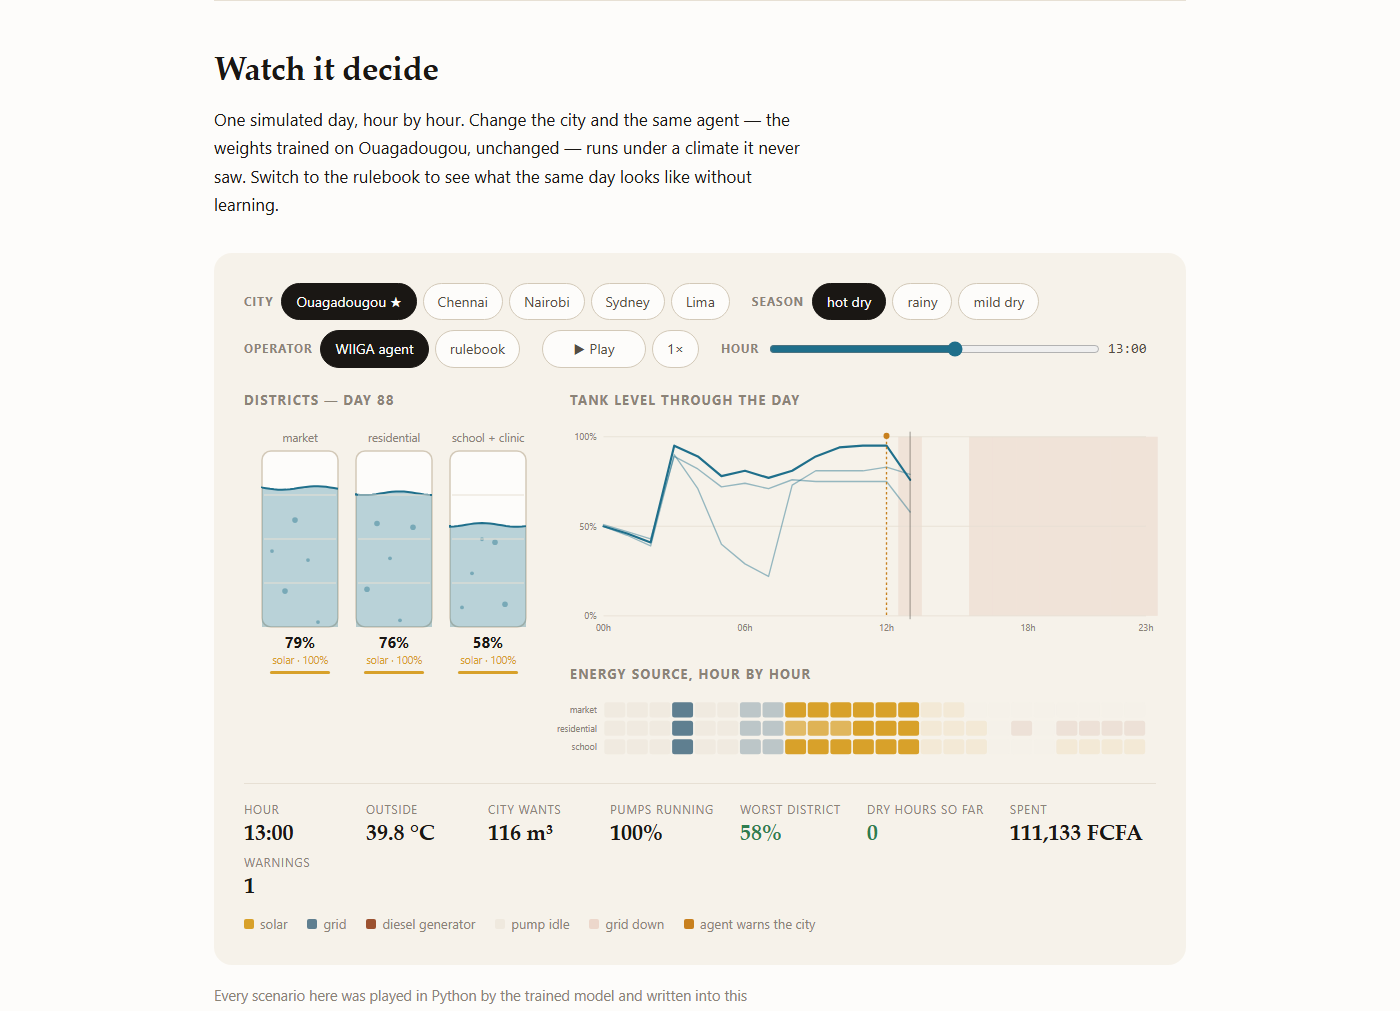
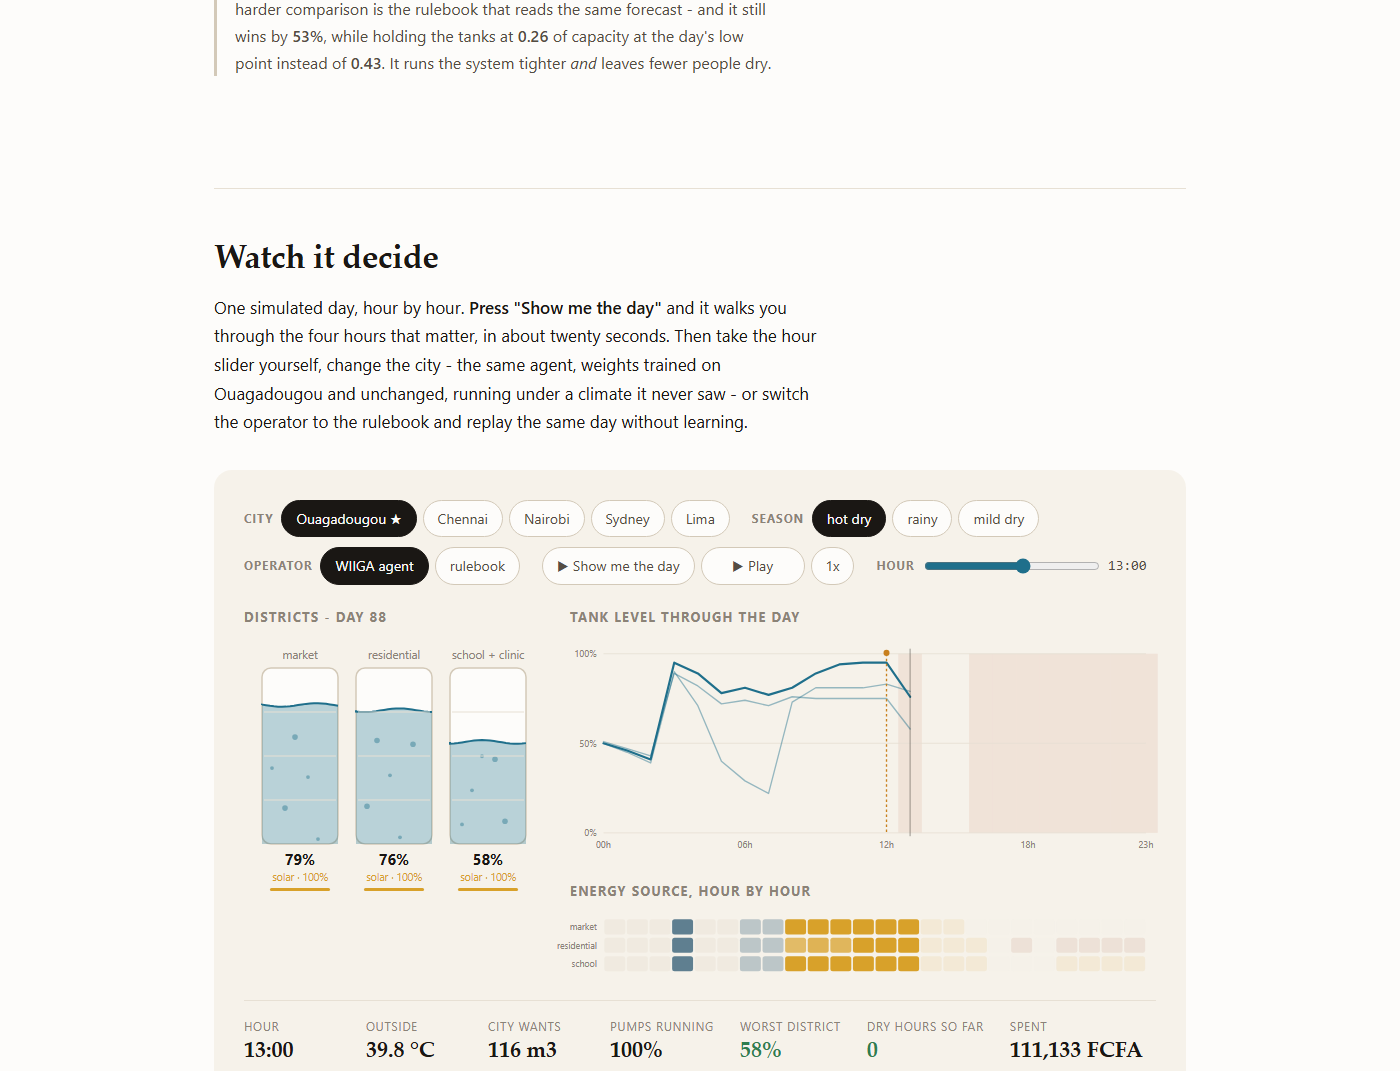
Visite guidee : la page se raconte toute seule en vingt secondes
Une console vide n'apprend rien a qui ne sait pas ou regarder, et un jure
qui ouvre la page ne sait pas ou regarder. Le bouton 'Show me the day'
parcourt les quatre heures qui comptent - 3 h le rappel de la station,
13 h le plein solaire, 19 h les pompes presque a l'arret, 23 h la journee
close a zero heure a sec - avec une legende a chaque etape.

Verifie dans le navigateur : les quatre etapes s'enchainent, l'heure, le
recit et la lecture chiffree changent ensemble.

diff --git a/demo/gabarit.html b/demo/gabarit.html
@@ -78,6 +78,12 @@
          font-variant-numeric:tabular-nums}
   .ro .v.bad{color:var(--bad)} .ro .v.good{color:var(--good)}
 
+  .recit{margin:16px 0 0;padding:14px 18px;border-radius:12px;max-width:none;
+         background:color-mix(in srgb,var(--water) 10%,var(--paper));
+         border-left:3px solid var(--water);font-size:16.5px;line-height:1.55}
+  .recit b{color:var(--water)}
+  button#c-tour[aria-pressed=true]{background:var(--water);border-color:var(--water);
+                                   color:#fff}
   .keys{display:flex;flex-wrap:wrap;gap:7px 20px;font-size:13px;color:var(--ink-3);margin:14px 0 0}
   .keys i{width:10px;height:10px;border-radius:2px;display:inline-block;margin-right:6px}
 
@@ -129,10 +135,11 @@ It prepared for it at midday.</p>
 <!-- ==================== CONSOLE ==================== -->
 <section id="console">
   <h2>Watch it decide</h2>
-  <p>One simulated day, hour by hour. <b>Drag the hour slider to 13:00, then to
-  19:00</b> - that is the whole argument in two moves. Change the city and the
-  same agent, weights trained on Ouagadougou and unchanged, runs under a climate
-  it never saw. Switch to the rulebook to see the same day without learning.</p>
+  <p>One simulated day, hour by hour. <b>Press "Show me the day"</b> and it walks
+  you through the four hours that matter, in about twenty seconds. Then take the
+  hour slider yourself, change the city - the same agent, weights trained on
+  Ouagadougou and unchanged, running under a climate it never saw - or switch the
+  operator to the rulebook and replay the same day without learning.</p>
 
   <div class="console">
     <div class="bar">
@@ -140,6 +147,7 @@ It prepared for it at midday.</p>
       <div class="grp" id="c-season"><span class="t">Season</span></div>
       <div class="grp" id="c-policy"><span class="t">Operator</span></div>
       <div class="grp">
+        <button class="play" id="c-tour" type="button">▶ Show me the day</button>
         <button class="play" id="c-play" type="button">▶ Play</button>
         <button id="c-speed" type="button">1x</button>
       </div>
@@ -167,6 +175,8 @@ It prepared for it at midday.</p>
       </div>
     </div>
 
+    <p class="recit" id="recit" hidden></p>
+    <p class="recit" id="recit" hidden></p>
     <div class="readout" id="readout"></div>
 
     <div class="keys">
@@ -428,7 +438,45 @@ bPlay.onclick=()=>{st.play=!st.play; if(st.play&&st.t>=23.99)st.t=0;
 bSpeed.onclick=()=>{st.vit=st.vit===1?2:st.vit===2?4:1; bSpeed.textContent=st.vit+"x";};
 // le curseur d'heure : on peut sauter à 19 h, quand le réseau tombe et que le
 // quartier résidentiel a soif - c'est là que la décision se voit
-bHour.oninput=()=>{st.play=false; bPlay.textContent="▶ Play";
+const bTour=document.getElementById("c-tour"), lRecit=document.getElementById("recit");
+// La visite guidee : quatre heures d'une meme journee, avec ce qu'elles racontent.
+// Elle existe parce qu'une console vide n'apprend rien a qui ne sait pas ou regarder,
+// et qu'un jure qui ouvre la page ne sait pas ou regarder.
+const VISITE=[
+ [3,"<b>3 a.m.</b> - the agent hands the station back to the operator. It pays 3.0 of "+
+    "reward to say <i>not this hour, you take it</i>. At night there is no sun to trade "+
+    "and no peak to anticipate: the old fixed setting is simply the right answer, and "+
+    "the agent knows it."],
+ [13,"<b>1 p.m.</b> - all three pumps at 100 %, all three on solar. Nobody is thirsty at "+
+    "1 p.m.: it is not serving demand, it is <b>storing work already done</b>. The tank "+
+    "is the battery, and it was already built."],
+ [19,"<b>7 p.m.</b> - peak demand, grid down, sun gone. The pumps are almost off and "+
+    "nobody is dry. <b>It did not react to the evening. It prepared for it at midday.</b>"],
+ [23,"<b>11 p.m.</b> - the day closes with zero dry hours. Now switch the operator to "+
+    "<i>rulebook</i> and come back here: at this same hour the residential district has "+
+    "been at 0 % for three hours."],
+];
+let tourId=null;
+function arreterTour(){
+  if(tourId){clearTimeout(tourId); tourId=null;}
+  bTour.setAttribute("aria-pressed","false");
+  bTour.textContent="▶ Show me the day";
+}
+bTour.onclick=()=>{
+  if(tourId){arreterTour(); lRecit.hidden=true; return;}
+  st.play=false; bPlay.textContent="▶ Play";
+  bTour.setAttribute("aria-pressed","true"); bTour.textContent="⏹ Stop";
+  lRecit.hidden=false;
+  let i=0;
+  const etape=()=>{
+    if(i>=VISITE.length){arreterTour(); return;}
+    const [h,txt]=VISITE[i++];
+    st.t=h; rendre(); lRecit.innerHTML=txt;
+    tourId=setTimeout(etape, 5200);
+  };
+  etape();
+};
+bHour.oninput=()=>{st.play=false; arreterTour(); bPlay.textContent="▶ Play";
   st.t=parseFloat(bHour.value); rendre();};
 
 /* ---- tanks ---- */

diff --git a/docs/index.html b/docs/index.html
@@ -78,6 +78,12 @@
          font-variant-numeric:tabular-nums}
   .ro .v.bad{color:var(--bad)} .ro .v.good{color:var(--good)}
 
+  .recit{margin:16px 0 0;padding:14px 18px;border-radius:12px;max-width:none;
+         background:color-mix(in srgb,var(--water) 10%,var(--paper));
+         border-left:3px solid var(--water);font-size:16.5px;line-height:1.55}
+  .recit b{color:var(--water)}
+  button#c-tour[aria-pressed=true]{background:var(--water);border-color:var(--water);
+                                   color:#fff}
   .keys{display:flex;flex-wrap:wrap;gap:7px 20px;font-size:13px;color:var(--ink-3);margin:14px 0 0}
   .keys i{width:10px;height:10px;border-radius:2px;display:inline-block;margin-right:6px}
 
@@ -129,10 +135,11 @@ It prepared for it at midday.</p>
 <!-- ==================== CONSOLE ==================== -->
 <section id="console">
   <h2>Watch it decide</h2>
-  <p>One simulated day, hour by hour. <b>Drag the hour slider to 13:00, then to
-  19:00</b> - that is the whole argument in two moves. Change the city and the
-  same agent, weights trained on Ouagadougou and unchanged, runs under a climate
-  it never saw. Switch to the rulebook to see the same day without learning.</p>
+  <p>One simulated day, hour by hour. <b>Press "Show me the day"</b> and it walks
+  you through the four hours that matter, in about twenty seconds. Then take the
+  hour slider yourself, change the city - the same agent, weights trained on
+  Ouagadougou and unchanged, running under a climate it never saw - or switch the
+  operator to the rulebook and replay the same day without learning.</p>
 
   <div class="console">
     <div class="bar">
@@ -140,6 +147,7 @@ It prepared for it at midday.</p>
       <div class="grp" id="c-season"><span class="t">Season</span></div>
       <div class="grp" id="c-policy"><span class="t">Operator</span></div>
       <div class="grp">
+        <button class="play" id="c-tour" type="button">▶ Show me the day</button>
         <button class="play" id="c-play" type="button">▶ Play</button>
         <button id="c-speed" type="button">1x</button>
       </div>
@@ -167,6 +175,8 @@ It prepared for it at midday.</p>
       </div>
     </div>
 
+    <p class="recit" id="recit" hidden></p>
+    <p class="recit" id="recit" hidden></p>
     <div class="readout" id="readout"></div>
 
     <div class="keys">
@@ -428,7 +438,45 @@ bPlay.onclick=()=>{st.play=!st.play; if(st.play&&st.t>=23.99)st.t=0;
 bSpeed.onclick=()=>{st.vit=st.vit===1?2:st.vit===2?4:1; bSpeed.textContent=st.vit+"x";};
 // le curseur d'heure : on peut sauter à 19 h, quand le réseau tombe et que le
 // quartier résidentiel a soif - c'est là que la décision se voit
-bHour.oninput=()=>{st.play=false; bPlay.textContent="▶ Play";
+const bTour=document.getElementById("c-tour"), lRecit=document.getElementById("recit");
+// La visite guidee : quatre heures d'une meme journee, avec ce qu'elles racontent.
+// Elle existe parce qu'une console vide n'apprend rien a qui ne sait pas ou regarder,
+// et qu'un jure qui ouvre la page ne sait pas ou regarder.
+const VISITE=[
+ [3,"<b>3 a.m.</b> - the agent hands the station back to the operator. It pays 3.0 of "+
+    "reward to say <i>not this hour, you take it</i>. At night there is no sun to trade "+
+    "and no peak to anticipate: the old fixed setting is simply the right answer, and "+
+    "the agent knows it."],
+ [13,"<b>1 p.m.</b> - all three pumps at 100 %, all three on solar. Nobody is thirsty at "+
+    "1 p.m.: it is not serving demand, it is <b>storing work already done</b>. The tank "+
+    "is the battery, and it was already built."],
+ [19,"<b>7 p.m.</b> - peak demand, grid down, sun gone. The pumps are almost off and "+
+    "nobody is dry. <b>It did not react to the evening. It prepared for it at midday.</b>"],
+ [23,"<b>11 p.m.</b> - the day closes with zero dry hours. Now switch the operator to "+
+    "<i>rulebook</i> and come back here: at this same hour the residential district has "+
+    "been at 0 % for three hours."],
+];
+let tourId=null;
+function arreterTour(){
+  if(tourId){clearTimeout(tourId); tourId=null;}
+  bTour.setAttribute("aria-pressed","false");
+  bTour.textContent="▶ Show me the day";
+}
+bTour.onclick=()=>{
+  if(tourId){arreterTour(); lRecit.hidden=true; return;}
+  st.play=false; bPlay.textContent="▶ Play";
+  bTour.setAttribute("aria-pressed","true"); bTour.textContent="⏹ Stop";
+  lRecit.hidden=false;
+  let i=0;
+  const etape=()=>{
+    if(i>=VISITE.length){arreterTour(); return;}
+    const [h,txt]=VISITE[i++];
+    st.t=h; rendre(); lRecit.innerHTML=txt;
+    tourId=setTimeout(etape, 5200);
+  };
+  etape();
+};
+bHour.oninput=()=>{st.play=false; arreterTour(); bPlay.textContent="▶ Play";
   st.t=parseFloat(bHour.value); rendre();};
 
 /* ---- tanks ---- */
